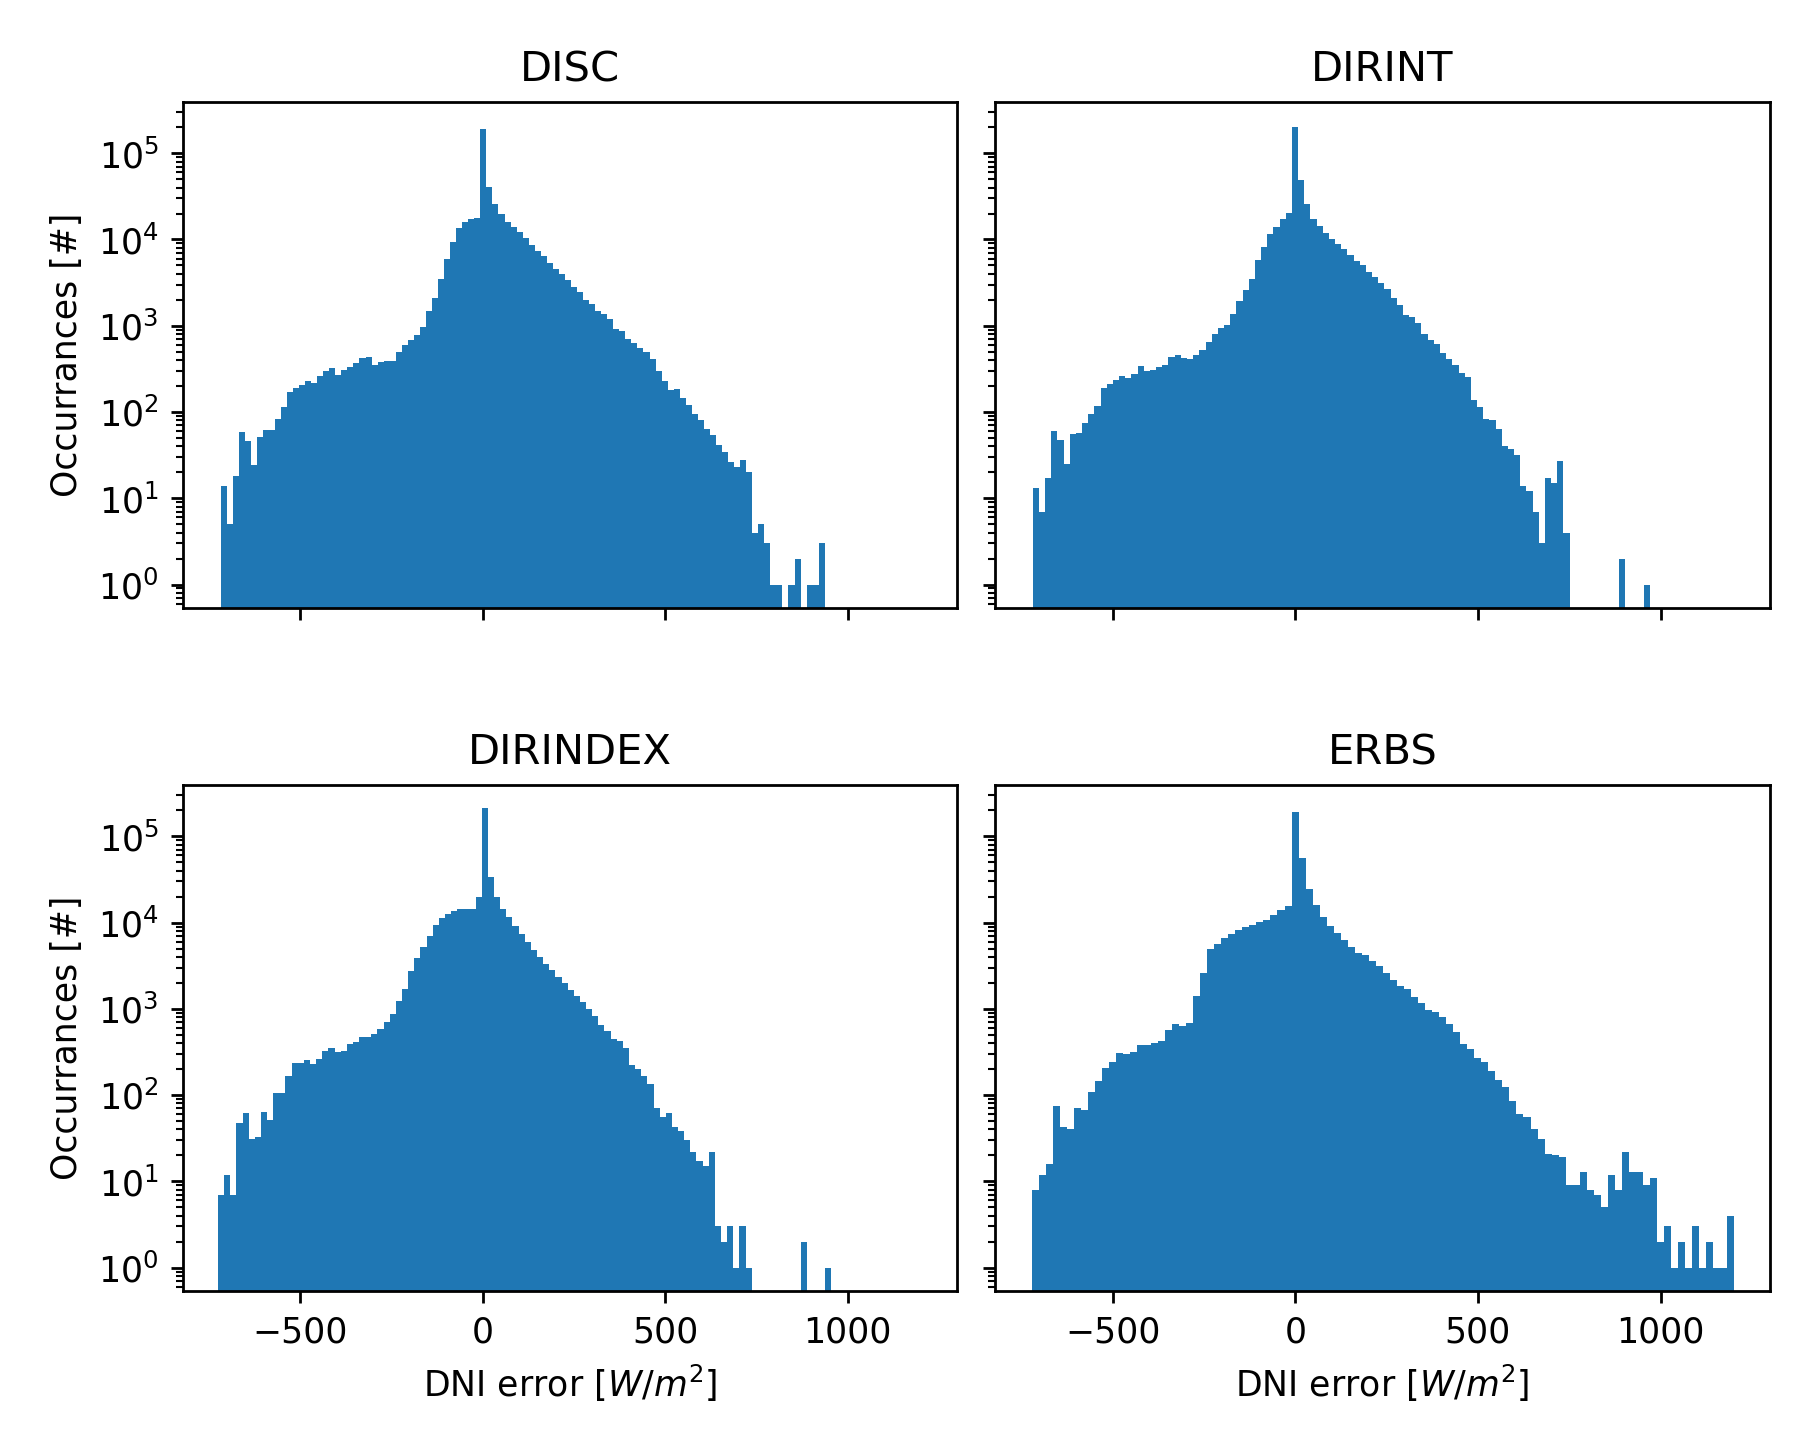
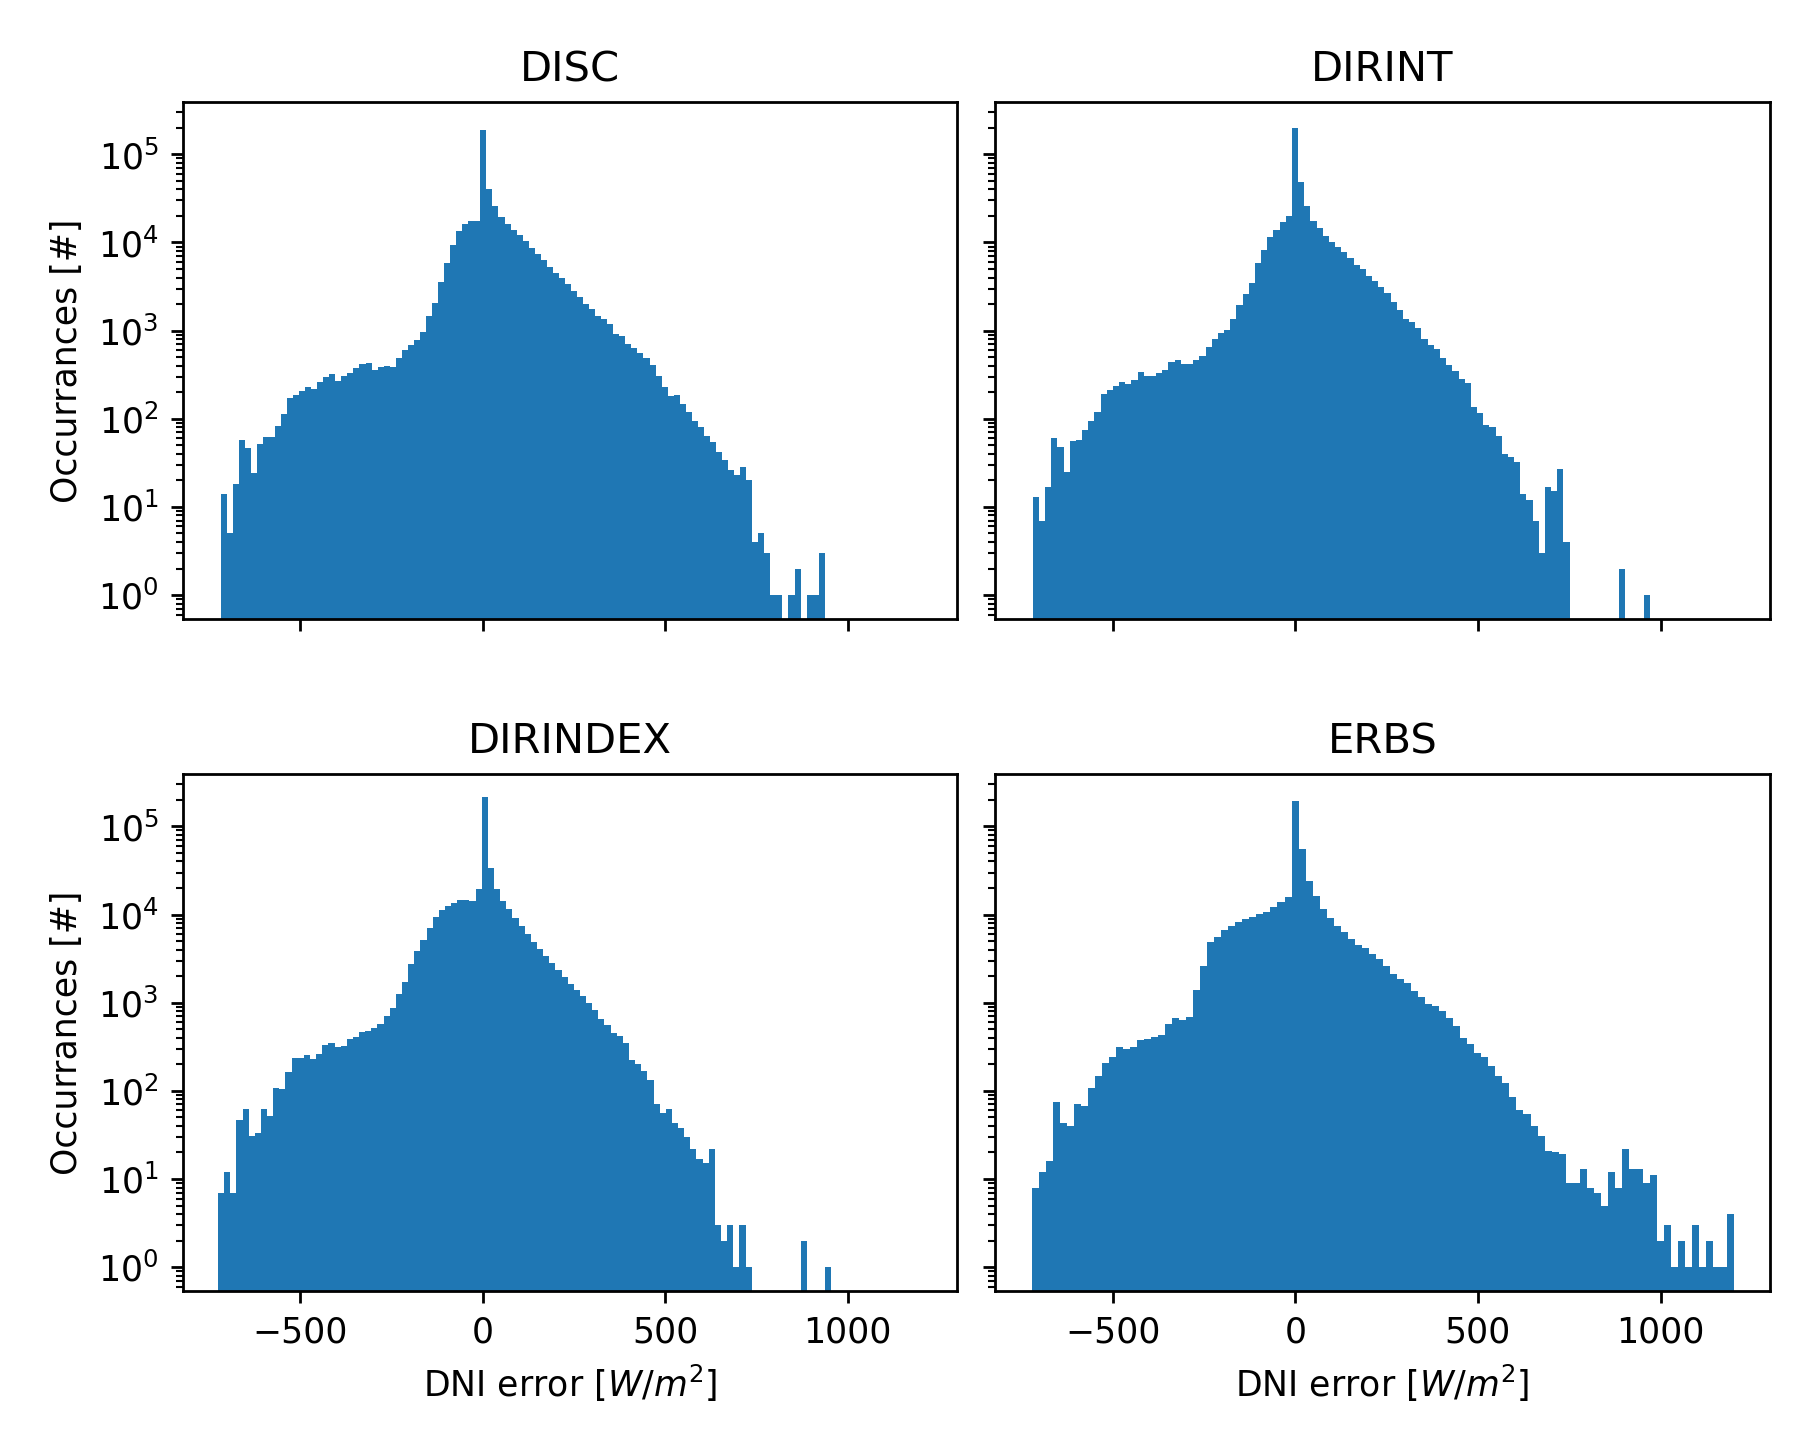
Ensure that the vertical padding is correct for any number of rows

diff --git a/src/utils.py b/src/utils.py
@@ -88,7 +88,7 @@ def create_plot_with_subplots(rows, columns, *, xlabel, ylabel, sharex=True, sha
     width = 6.5 * columns ** (1/3)
     height = 5 * rows ** (1/3)
     figure, axes = plt.subplots(nrows=rows, ncols=columns, sharex=sharex, sharey=sharey, figsize=(width, height))
-    figure.subplots_adjust(wspace=0.05, hspace=0.35)
+    figure.subplots_adjust(wspace=0.05, hspace=0.15 * rows)
         
     # Set the labels on the outer x and y axis
     if(rows > 1 and columns > 1):
